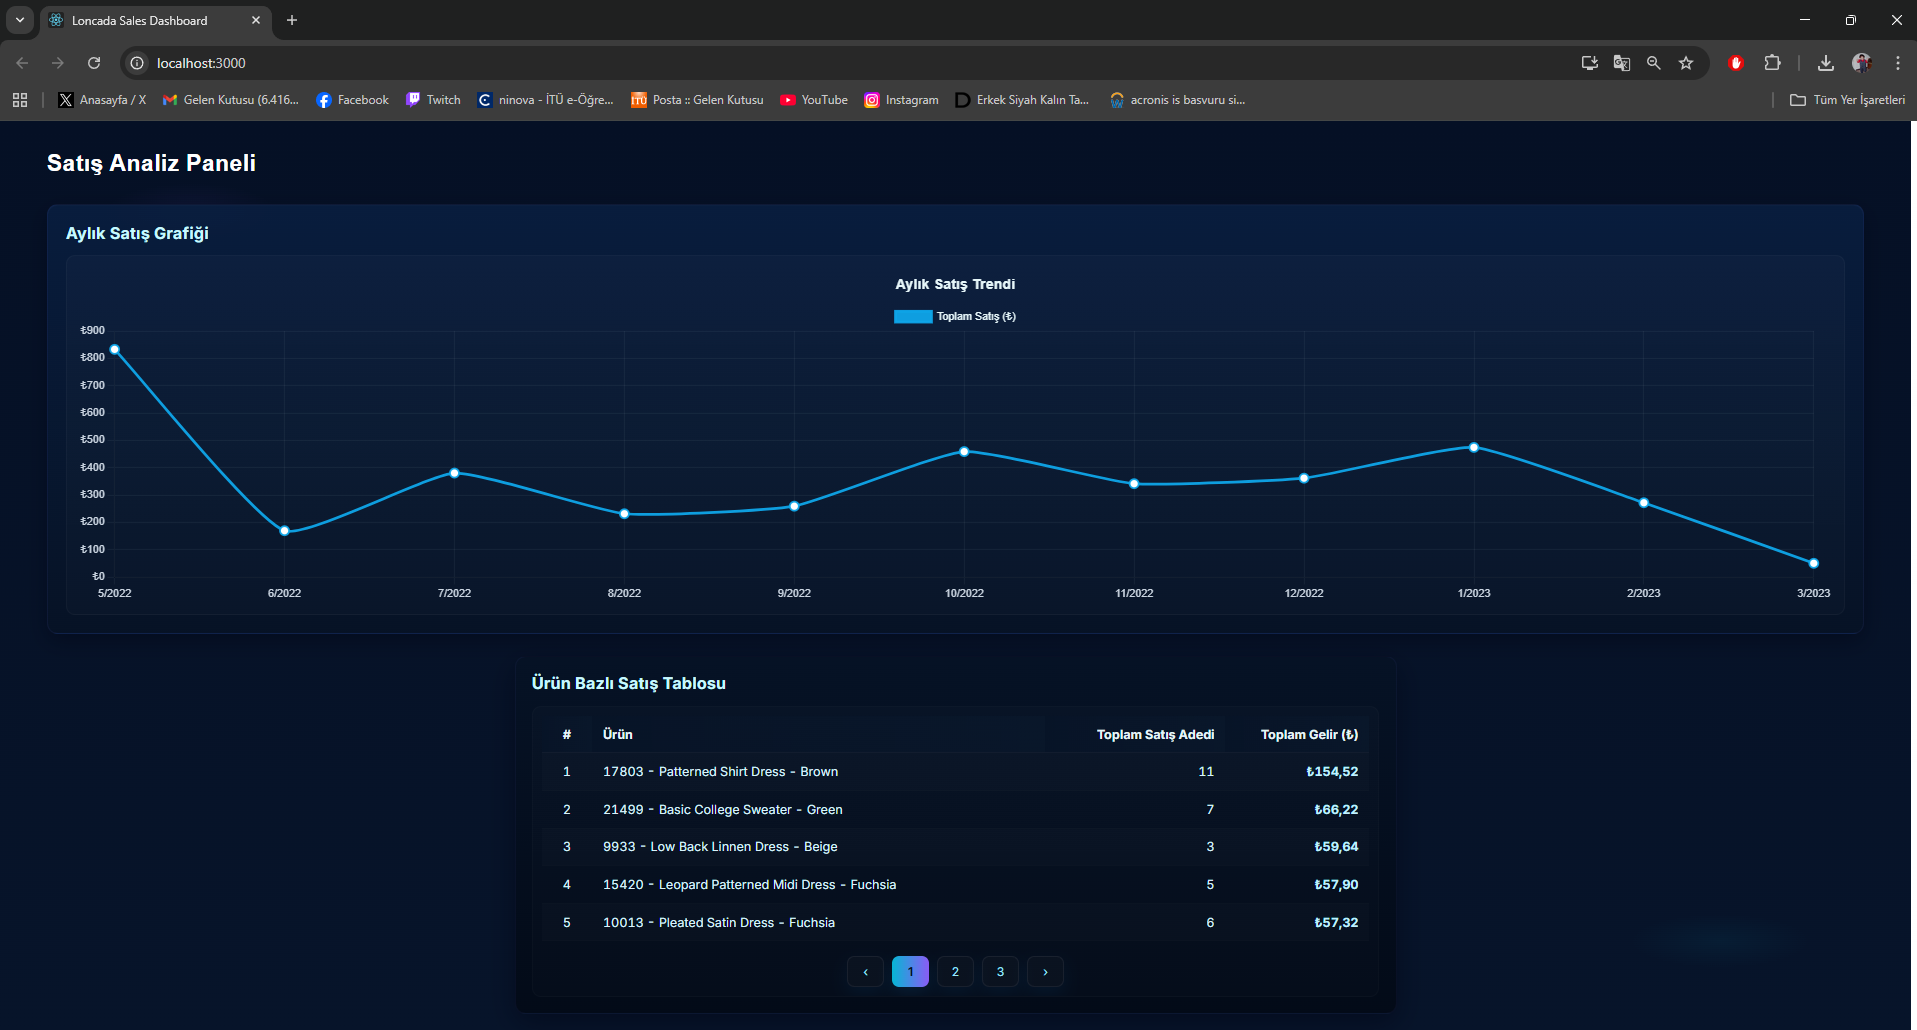
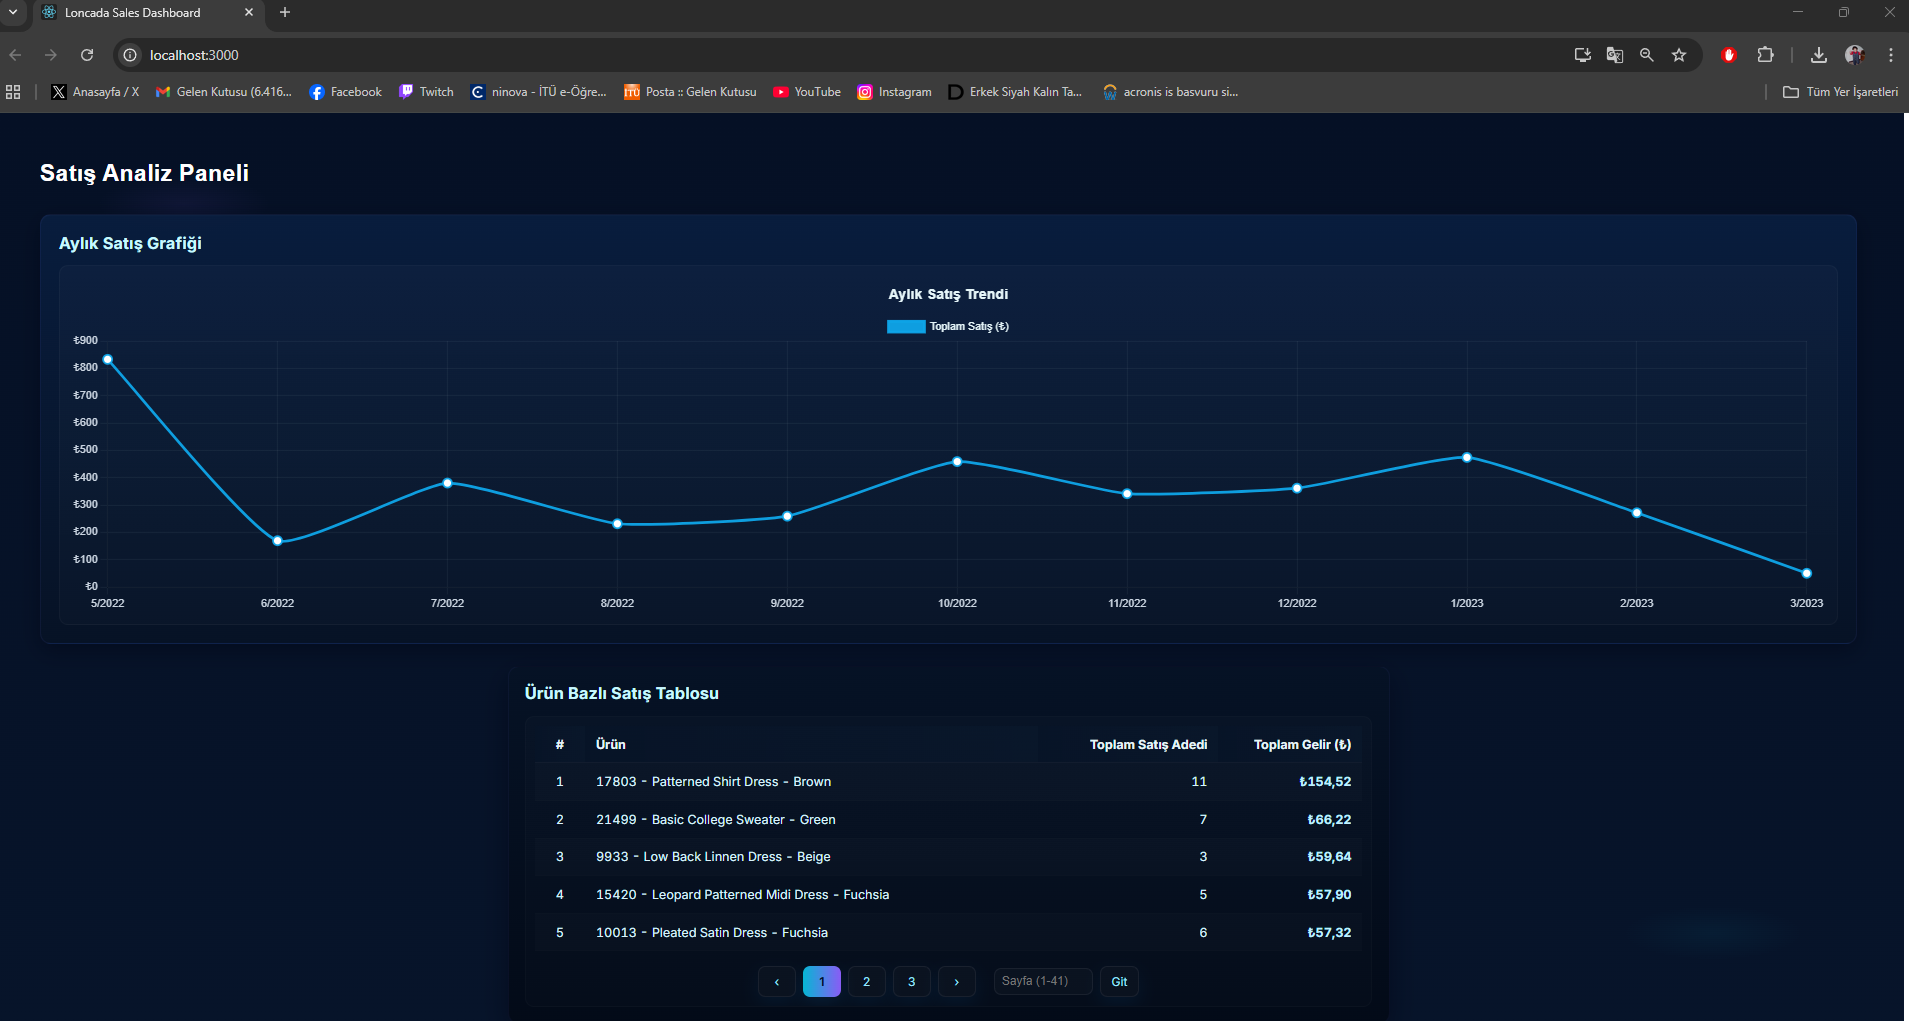
update: ui

diff --git a/frontend/src/ProductSalesTable.js b/frontend/src/ProductSalesTable.js
@@ -3,18 +3,20 @@ import "./ProductSalesTable.css";
 
 function ProductSalesTable({ productData }) {
   const [currentPage, setCurrentPage] = useState(1);
+  const [customPage, setCustomPage] = useState("");
   const itemsPerPage = 5;
 
   const indexOfLastItem = currentPage * itemsPerPage;
   const indexOfFirstItem = indexOfLastItem - itemsPerPage;
   const currentItems = productData.slice(indexOfFirstItem, indexOfLastItem);
 
-  const totalPages = Math.ceil(productData.length / itemsPerPage);
+  const totalPages = Math.max(1, Math.ceil(productData.length / itemsPerPage));
 
   // clamp paginate to valid range
   const paginate = (pageNumber) => {
-    const page = Math.max(1, Math.min(totalPages, pageNumber));
+    const page = Math.max(1, Math.min(totalPages, Number(pageNumber) || 1));
     setCurrentPage(page);
+    setCustomPage("");
   };
 
   // return up to 3 page numbers, centered around currentPage when possible
@@ -26,6 +28,28 @@ function ProductSalesTable({ productData }) {
     if (start < 1) start = 1;
     if (start + 2 > totalPages) start = totalPages - 2;
     return [start, start + 1, start + 2];
+  };
+
+  const handleCustomChange = (e) => {
+    // allow only numbers and empty string
+    const val = e.target.value;
+    if (val === "" || /^\d+$/.test(val)) {
+      setCustomPage(val);
+    }
+  };
+
+  const handleCustomKey = (e) => {
+    if (e.key === "Enter") {
+      const num = Number(customPage);
+      if (num >= 1 && num <= totalPages) paginate(num);
+      else if (customPage !== "") paginate(num); // clamp will fix out-of-range
+    }
+  };
+
+  const handleGoClick = () => {
+    const num = Number(customPage);
+    if (!customPage) return;
+    paginate(num);
   };
 
   return (
@@ -61,7 +85,7 @@ function ProductSalesTable({ productData }) {
           </table>
 
           <div className="pst-pagination">
-            {/* optional Prev button */}
+            {/* Prev */}
             <button
               onClick={() => paginate(currentPage - 1)}
               className="pst-pageBtn"
@@ -71,6 +95,7 @@ function ProductSalesTable({ productData }) {
               ‹
             </button>
 
+            {/* visible pages (1 2 3 etc.) */}
             {getVisiblePages().map((number) => (
               <button
                 key={number}
@@ -82,7 +107,7 @@ function ProductSalesTable({ productData }) {
               </button>
             ))}
 
-            {/* optional Next button */}
+            {/* Next */}
             <button
               onClick={() => paginate(currentPage + 1)}
               className="pst-pageBtn"
@@ -91,6 +116,38 @@ function ProductSalesTable({ productData }) {
             >
               ›
             </button>
+
+            {/* custom page jump */}
+            <div style={{ display: 'flex', alignItems: 'center', gap: 8, marginLeft: 12 }}>
+              <input
+                className="pst-pageInput"
+                type="text"
+                inputMode="numeric"
+                pattern="[0-9]*"
+                placeholder={`Sayfa (1-${totalPages})`}
+                value={customPage}
+                onChange={handleCustomChange}
+                onKeyDown={handleCustomKey}
+                aria-label="Özel sayfa numarası"
+                style={{
+                  width: 110,
+                  padding: '6px 8px',
+                  borderRadius: 8,
+                  border: '1px solid rgba(255,255,255,0.06)',
+                  background: 'rgba(255,255,255,0.02)',
+                  color: 'var(--text)',
+                }}
+              />
+              <button
+                onClick={handleGoClick}
+                className="pst-pageBtn pst-goBtn"
+                aria-label="Git"
+                disabled={!customPage}
+                title={`Git sayfa ${customPage}`}
+              >
+                Git
+              </button>
+            </div>
           </div>
         </div>
       ) : (
